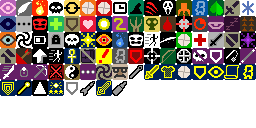
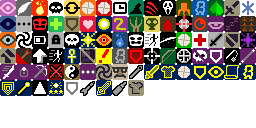
Added the broken armor debuff and the earthen bullet.

Changed region(s): [[0.5, 0.625, 0.5625, 0.75]]

diff --git a/core/src/main/java/com/shatteredpixel/shatteredpixeldungeon/items/weapon/missiles/bullets/potion_bullets/exotic/InventoryEarthenBullet.java b/core/src/main/java/com/shatteredpixel/shatteredpixeldungeon/items/weapon/missiles/bullets/potion_bullets/exotic/InventoryEarthenBullet.java
@@ -1,0 +1,112 @@
+/*
+ * Pixel Dungeon
+ * Copyright (C) 2012-2015 Oleg Dolya
+ *
+ * Shattered Pixel Dungeon
+ * Copyright (C) 2014-2026 Evan Debenham
+ *
+ * This program is free software: you can redistribute it and/or modify
+ * it under the terms of the GNU General Public License as published by
+ * the Free Software Foundation, either version 3 of the License, or
+ * (at your option) any later version.
+ *
+ * This program is distributed in the hope that it will be useful,
+ * but WITHOUT ANY WARRANTY; without even the implied warranty of
+ * MERCHANTABILITY or FITNESS FOR A PARTICULAR PURPOSE.  See the
+ * GNU General Public License for more details.
+ *
+ * You should have received a copy of the GNU General Public License
+ * along with this program.  If not, see <http://www.gnu.org/licenses/>
+ */
+
+package com.shatteredpixel.shatteredpixeldungeon.items.weapon.missiles.bullets.potion_bullets.exotic;
+
+import com.shatteredpixel.shatteredpixeldungeon.actors.Char;
+import com.shatteredpixel.shatteredpixeldungeon.actors.buffs.BrokenArmor;
+import com.shatteredpixel.shatteredpixeldungeon.actors.buffs.Buff;
+import com.shatteredpixel.shatteredpixeldungeon.actors.buffs.MagicalBurning;
+import com.shatteredpixel.shatteredpixeldungeon.actors.hero.Hero;
+import com.shatteredpixel.shatteredpixeldungeon.items.Item;
+import com.shatteredpixel.shatteredpixeldungeon.items.ToolboxRecipe;
+import com.shatteredpixel.shatteredpixeldungeon.items.potions.Potion;
+import com.shatteredpixel.shatteredpixeldungeon.items.potions.PotionOfLiquidFlame;
+import com.shatteredpixel.shatteredpixeldungeon.items.potions.PotionOfParalyticGas;
+import com.shatteredpixel.shatteredpixeldungeon.items.potions.exotic.PotionOfDragonsBreath;
+import com.shatteredpixel.shatteredpixeldungeon.items.potions.exotic.PotionOfEarthenArmor;
+import com.shatteredpixel.shatteredpixeldungeon.items.weapon.ArcaneFirearm;
+import com.shatteredpixel.shatteredpixeldungeon.items.weapon.missiles.bullets.InventoryBullet;
+import com.shatteredpixel.shatteredpixeldungeon.sprites.ItemSpriteSheet;
+
+import java.util.ArrayList;
+
+public class InventoryEarthenBullet extends InventoryExoticPotionBullet {
+
+	{
+		icon = ItemSpriteSheet.Icons.POTION_EARTHARMR;
+	}
+
+	@Override
+	public Potion getPotion() { return new PotionOfEarthenArmor(); }
+
+	@Override
+	public ArcaneFirearm.Bullet get_bullet() {
+		return new Bullet();
+	}
+
+	public static class Bullet extends ArcaneFirearm.Bullet {
+		{
+			baseDmg = 6;
+			scalingFactorMin = 1.75f;
+			scalingFactorMax = 2.75f;
+			maxFactor = 2.75f;
+			parentClass = InventoryEarthenBullet.class;
+		}
+
+		@Override
+		public InventoryBullet get_inventory_bullet() {
+			return new InventoryEarthenBullet();
+		}
+
+		@Override
+		public void onHit(Char attacker, Char defender) {
+			if (defender != null && !defender.isImmune(BrokenArmor.class)) {
+				Buff.affect(defender, BrokenArmor.class, 6f);
+
+				if (attacker instanceof Hero) {
+					PotionOfParalyticGas p = new PotionOfParalyticGas();
+					p.identify(true);
+				}
+			}
+		}
+	}
+
+	public static class Craft extends ToolboxRecipe {
+		@Override
+		public boolean testIngredients(ArrayList<Item> ingredients) {
+            return ingredients.size() == 1 && ingredients.get(0).getClass().equals(PotionOfEarthenArmor.class);
+        }
+
+		@Override
+		public int cost(ArrayList<Item> ingredients) { return 2; }
+
+		@Override
+		public Item craft(ArrayList<Item> ingredients) {
+			if (!testIngredients(ingredients)) return null;
+
+			for (Item i : ingredients) { i.quantity(i.quantity() - 1); }
+
+			InventoryEarthenBullet bullets = new InventoryEarthenBullet();
+			bullets.quantity(5);
+			return bullets;
+		}
+
+		@Override
+		public Item sampleOutput(ArrayList<Item> ingredients) {
+			if (!testIngredients(ingredients)) return null;
+
+			InventoryEarthenBullet bullets = new InventoryEarthenBullet();
+			bullets.quantity(5);
+			return bullets;
+		}
+	}
+}

diff --git a/core/src/main/java/com/shatteredpixel/shatteredpixeldungeon/ui/QuickToolboxRecipe.java b/core/src/main/java/com/shatteredpixel/shatteredpixeldungeon/ui/QuickToolboxRecipe.java
@@ -50,6 +50,7 @@ import com.shatteredpixel.shatteredpixeldungeon.items.potions.exotic.PotionOfCle
 import com.shatteredpixel.shatteredpixeldungeon.items.potions.exotic.PotionOfCorrosiveGas;
 import com.shatteredpixel.shatteredpixeldungeon.items.potions.exotic.PotionOfDivineInspiration;
 import com.shatteredpixel.shatteredpixeldungeon.items.potions.exotic.PotionOfDragonsBreath;
+import com.shatteredpixel.shatteredpixeldungeon.items.potions.exotic.PotionOfEarthenArmor;
 import com.shatteredpixel.shatteredpixeldungeon.items.scrolls.Scroll;
 import com.shatteredpixel.shatteredpixeldungeon.items.weapon.missiles.bullets.InventoryBlindingBullet;
 import com.shatteredpixel.shatteredpixeldungeon.items.weapon.missiles.bullets.InventoryBullet;
@@ -81,6 +82,7 @@ import com.shatteredpixel.shatteredpixeldungeon.items.weapon.missiles.bullets.po
 import com.shatteredpixel.shatteredpixeldungeon.items.weapon.missiles.bullets.potion_bullets.exotic.InventoryCorrosiveBullet;
 import com.shatteredpixel.shatteredpixeldungeon.items.weapon.missiles.bullets.potion_bullets.exotic.InventoryDivineBullet;
 import com.shatteredpixel.shatteredpixeldungeon.items.weapon.missiles.bullets.potion_bullets.exotic.InventoryDragonBullet;
+import com.shatteredpixel.shatteredpixeldungeon.items.weapon.missiles.bullets.potion_bullets.exotic.InventoryEarthenBullet;
 import com.shatteredpixel.shatteredpixeldungeon.plants.Blindweed;
 import com.shatteredpixel.shatteredpixeldungeon.plants.Earthroot;
 import com.shatteredpixel.shatteredpixeldungeon.plants.Fadeleaf;
@@ -376,6 +378,7 @@ public class QuickToolboxRecipe extends Component {
 						result.add(exoticPotionRecipeHelper(new InventoryCorrosiveBullet.Craft(), new InventoryCorrosiveBullet(), new PotionOfCorrosiveGas()));
 						result.add(exoticPotionRecipeHelper(new InventoryDivineBullet.Craft(), new InventoryDivineBullet(), new PotionOfDivineInspiration()));
 						result.add(exoticPotionRecipeHelper(new InventoryDragonBullet.Craft(), new InventoryDragonBullet(), new PotionOfDragonsBreath()));
+						result.add(exoticPotionRecipeHelper(new InventoryEarthenBullet.Craft(), new InventoryEarthenBullet(), new PotionOfEarthenArmor()));
 					}
 				}
 				break;

diff --git a/core/src/main/java/com/shatteredpixel/shatteredpixeldungeon/actors/buffs/BrokenArmor.java b/core/src/main/java/com/shatteredpixel/shatteredpixeldungeon/actors/buffs/BrokenArmor.java
@@ -1,0 +1,50 @@
+/*
+ * Pixel Dungeon
+ * Copyright (C) 2012-2015 Oleg Dolya
+ *
+ * Shattered Pixel Dungeon
+ * Copyright (C) 2014-2026 Evan Debenham
+ *
+ * This program is free software: you can redistribute it and/or modify
+ * it under the terms of the GNU General Public License as published by
+ * the Free Software Foundation, either version 3 of the License, or
+ * (at your option) any later version.
+ *
+ * This program is distributed in the hope that it will be useful,
+ * but WITHOUT ANY WARRANTY; without even the implied warranty of
+ * MERCHANTABILITY or FITNESS FOR A PARTICULAR PURPOSE.  See the
+ * GNU General Public License for more details.
+ *
+ * You should have received a copy of the GNU General Public License
+ * along with this program.  If not, see <http://www.gnu.org/licenses/>
+ */
+
+package com.shatteredpixel.shatteredpixeldungeon.actors.buffs;
+
+import com.shatteredpixel.shatteredpixeldungeon.Dungeon;
+import com.shatteredpixel.shatteredpixeldungeon.actors.Char;
+import com.shatteredpixel.shatteredpixeldungeon.messages.Messages;
+import com.shatteredpixel.shatteredpixeldungeon.sprites.CharSprite;
+import com.shatteredpixel.shatteredpixeldungeon.ui.BuffIndicator;
+import com.watabou.utils.Bundle;
+import com.watabou.utils.Random;
+
+public class BrokenArmor extends FlavourBuff {
+
+	public static final float DURATION	= 6f;
+
+	{
+		type = buffType.NEGATIVE;
+		announced = true;
+	}
+	
+	@Override
+	public int icon() {
+		return BuffIndicator.BROKEN_ARMOR;
+	}
+
+	@Override
+	public float iconFadePercent() {
+		return Math.max(0, (DURATION - visualcooldown()) / DURATION);
+	}
+}

diff --git a/core/src/main/java/com/shatteredpixel/shatteredpixeldungeon/items/ToolboxRecipe.java b/core/src/main/java/com/shatteredpixel/shatteredpixeldungeon/items/ToolboxRecipe.java
@@ -60,6 +60,7 @@ import com.shatteredpixel.shatteredpixeldungeon.items.weapon.missiles.bullets.po
 import com.shatteredpixel.shatteredpixeldungeon.items.weapon.missiles.bullets.potion_bullets.exotic.InventoryCorrosiveBullet;
 import com.shatteredpixel.shatteredpixeldungeon.items.weapon.missiles.bullets.potion_bullets.exotic.InventoryDivineBullet;
 import com.shatteredpixel.shatteredpixeldungeon.items.weapon.missiles.bullets.potion_bullets.exotic.InventoryDragonBullet;
+import com.shatteredpixel.shatteredpixeldungeon.items.weapon.missiles.bullets.potion_bullets.exotic.InventoryEarthenBullet;
 import com.shatteredpixel.shatteredpixeldungeon.plants.Rotberry;
 
 import java.util.ArrayList;
@@ -123,7 +124,8 @@ public abstract class ToolboxRecipe {
 			new InventoryCleansingBullet.Craft(),
 			new InventoryCorrosiveBullet.Craft(),
 			new InventoryDivineBullet.Craft(),
-			new InventoryDragonBullet.Craft()
+			new InventoryDragonBullet.Craft(),
+			new InventoryEarthenBullet.Craft()
 	};
 	
 	private static ToolboxRecipe[] twoIngredientRecipes = new ToolboxRecipe[]{

diff --git a/core/src/main/java/com/shatteredpixel/shatteredpixeldungeon/actors/mobs/Mob.java b/core/src/main/java/com/shatteredpixel/shatteredpixeldungeon/actors/mobs/Mob.java
@@ -91,6 +91,7 @@ import com.shatteredpixel.shatteredpixeldungeon.items.potions.PotionOfToxicGas;
 import com.shatteredpixel.shatteredpixeldungeon.items.potions.exotic.ExoticPotion;
 import com.shatteredpixel.shatteredpixeldungeon.items.potions.exotic.PotionOfCleansing;
 import com.shatteredpixel.shatteredpixeldungeon.items.potions.exotic.PotionOfDragonsBreath;
+import com.shatteredpixel.shatteredpixeldungeon.items.potions.exotic.PotionOfEarthenArmor;
 import com.shatteredpixel.shatteredpixeldungeon.items.potions.exotic.PotionOfShielding;
 import com.shatteredpixel.shatteredpixeldungeon.items.rings.Ring;
 import com.shatteredpixel.shatteredpixeldungeon.items.rings.RingOfWealth;
@@ -1312,7 +1313,7 @@ public abstract class Mob extends Char {
 				debugThing4.collect();
 				debugThing4.identify();
 				debugThing4.cursed = false;
-				PotionOfDragonsBreath debugThing5 = new PotionOfDragonsBreath();
+				PotionOfEarthenArmor debugThing5 = new PotionOfEarthenArmor();
 				debugThing5.collect();
 			}
 		}

diff --git a/core/src/main/java/com/shatteredpixel/shatteredpixeldungeon/actors/Char.java b/core/src/main/java/com/shatteredpixel/shatteredpixeldungeon/actors/Char.java
@@ -36,6 +36,7 @@ import com.shatteredpixel.shatteredpixeldungeon.actors.buffs.Barkskin;
 import com.shatteredpixel.shatteredpixeldungeon.actors.buffs.Berserk;
 import com.shatteredpixel.shatteredpixeldungeon.actors.buffs.Bleeding;
 import com.shatteredpixel.shatteredpixeldungeon.actors.buffs.Bless;
+import com.shatteredpixel.shatteredpixeldungeon.actors.buffs.BrokenArmor;
 import com.shatteredpixel.shatteredpixeldungeon.actors.buffs.Buff;
 import com.shatteredpixel.shatteredpixeldungeon.actors.buffs.Burning;
 import com.shatteredpixel.shatteredpixeldungeon.actors.buffs.ChampionEnemy;
@@ -404,6 +405,8 @@ public abstract class Char extends Actor {
 
 				if (h.belongings.attackingWeapon() instanceof InventoryEarthBullet.Bullet) dr = 0;
 			}
+
+			if (enemy.buff(BrokenArmor.class) != null) dr = 0;
 
 			//we use a float here briefly so that we don't have to constantly round while
 			// potentially applying various multiplier effects

diff --git a/core/src/main/java/com/shatteredpixel/shatteredpixeldungeon/ui/BuffIndicator.java b/core/src/main/java/com/shatteredpixel/shatteredpixeldungeon/ui/BuffIndicator.java
@@ -138,6 +138,7 @@ public class BuffIndicator extends Component {
 	public static final int THROWN_WEP  = 85;
 	public static final int WRATH_AURA	= 86;
 	public static final int BULLET		= 87;
+	public static final int BROKEN_ARMOR= 88;
 
 	public static final int SIZE_SMALL  = 7;
 	public static final int SIZE_LARGE  = 16;
